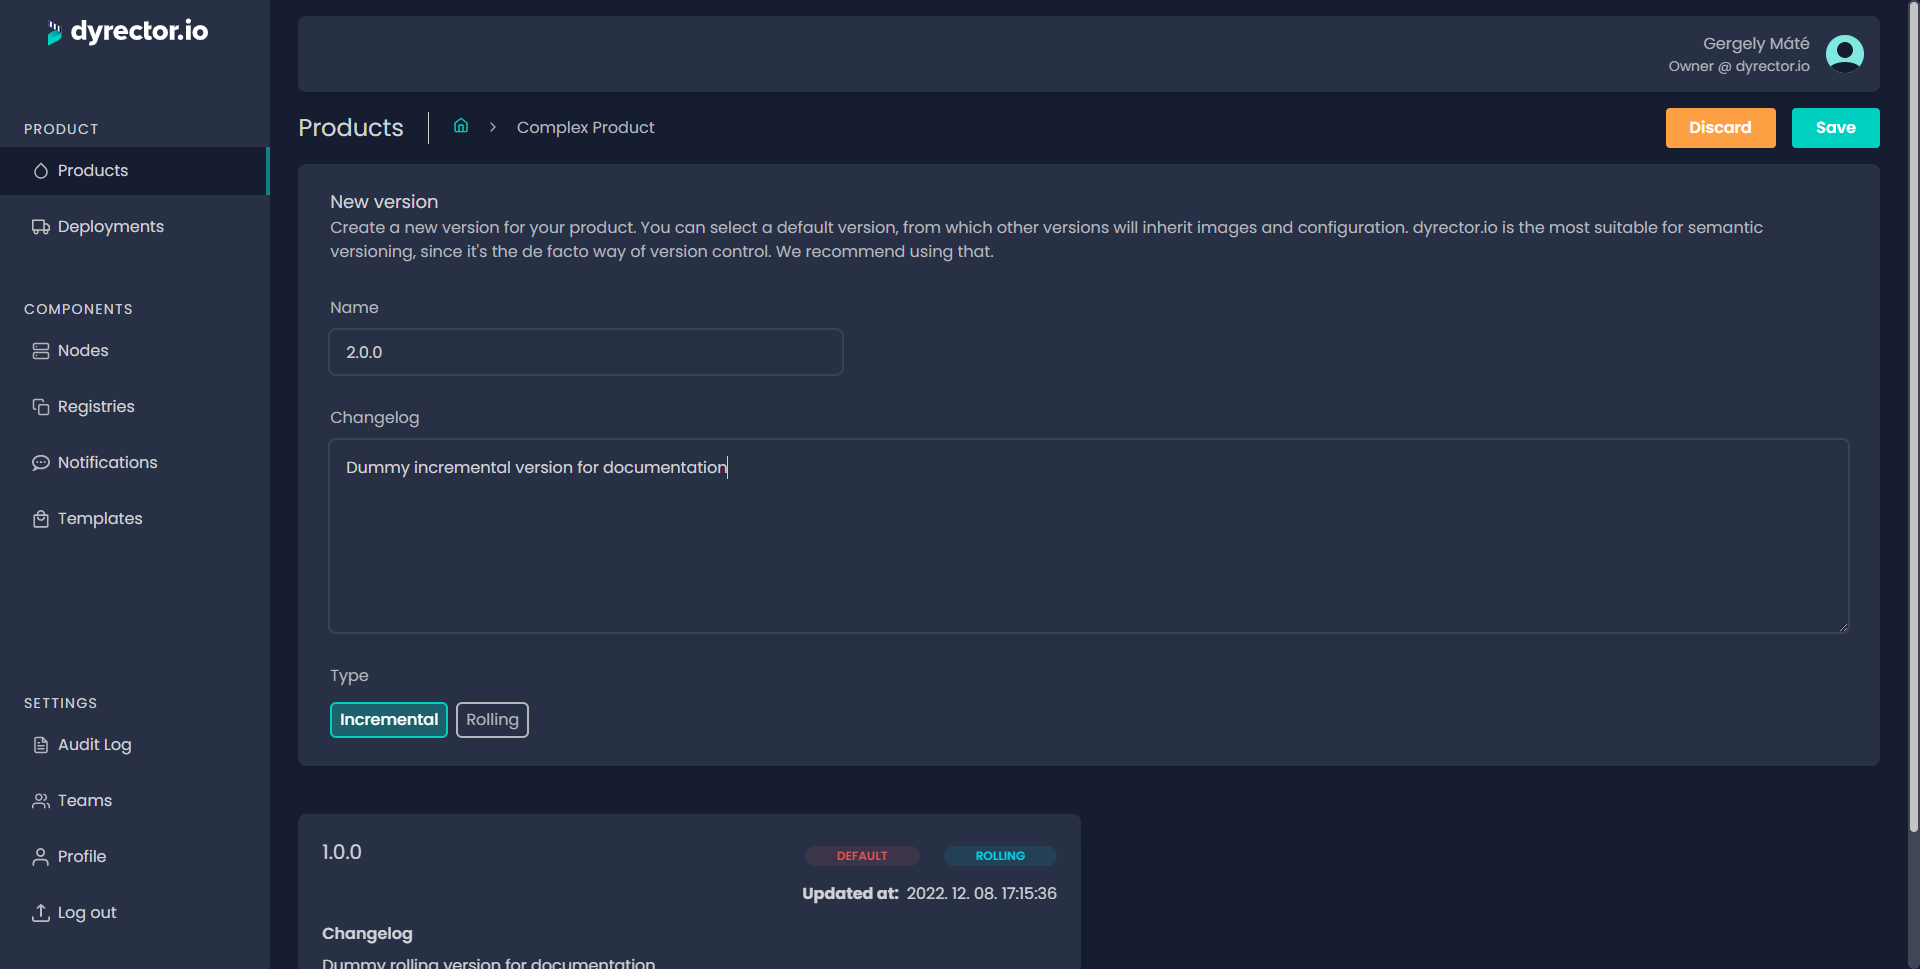
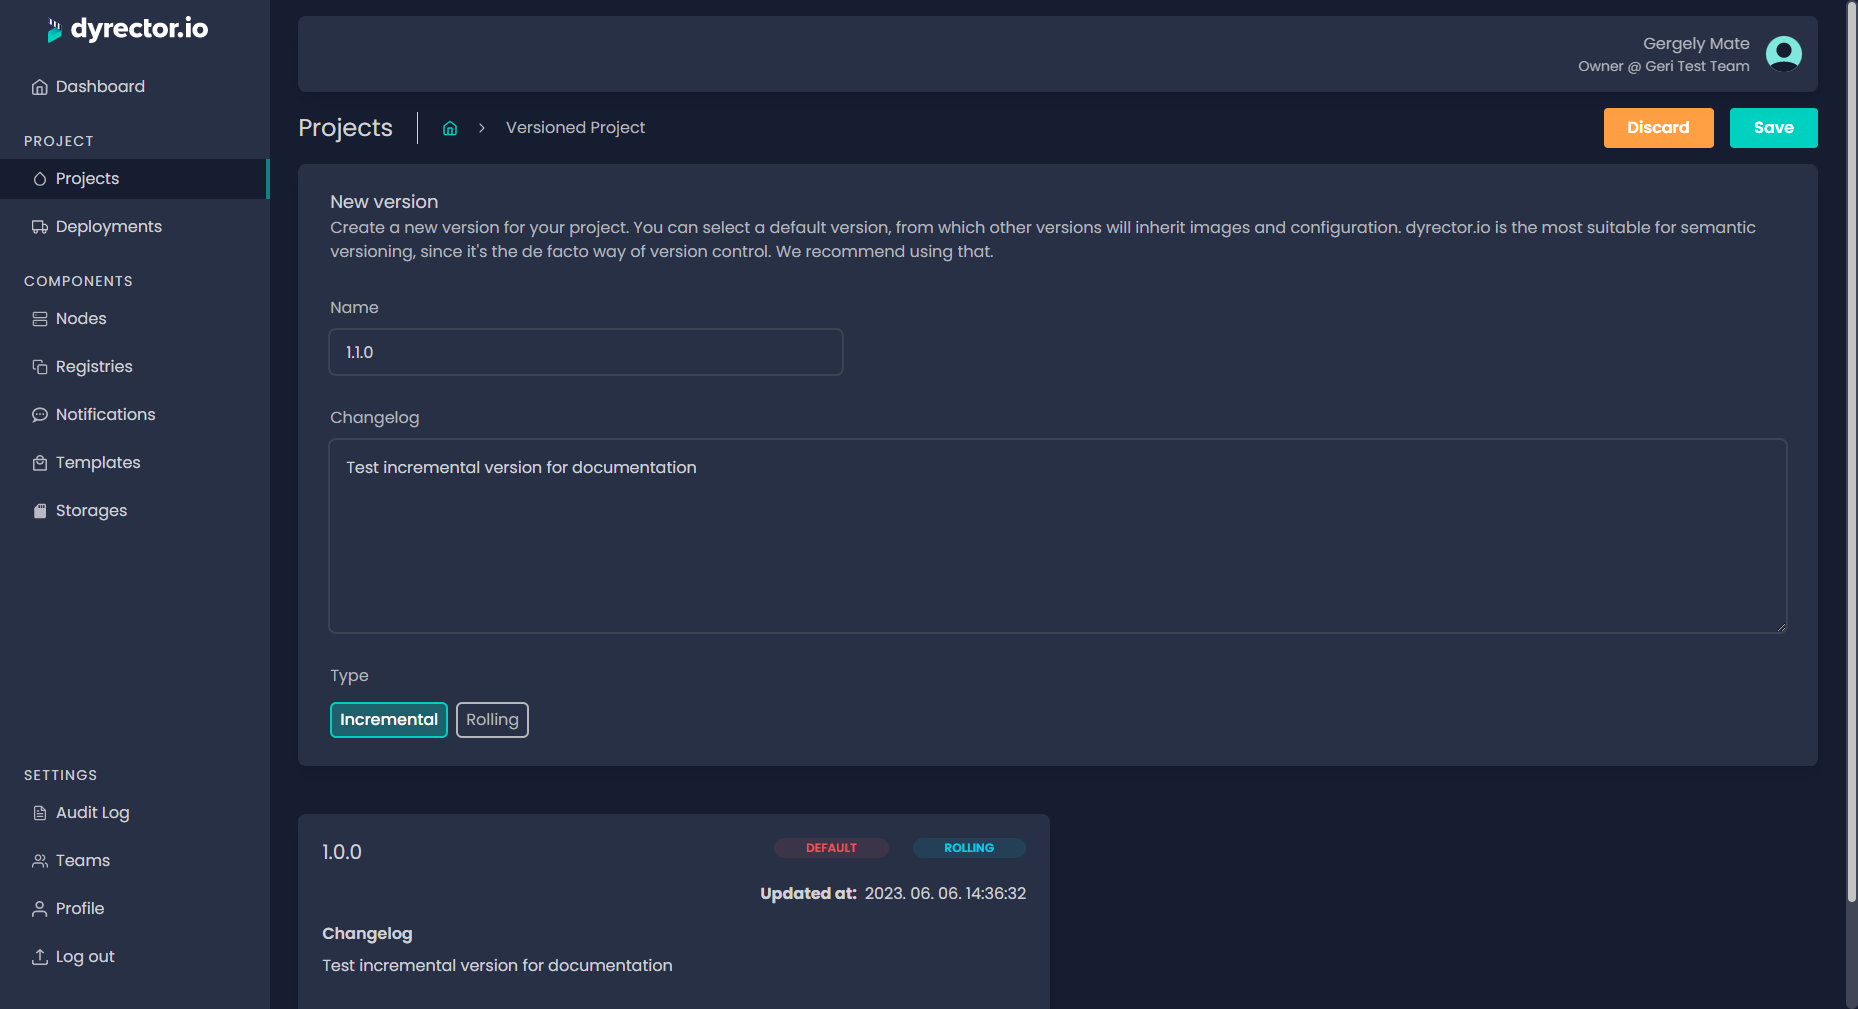
docs(gitbook): docs: update project add workflow with new screenshots

diff --git a/docs/tutorials/create-your-product/create-a-complex-product/create-a-rolling-product.md b/docs/tutorials/create-your-product/create-a-complex-product/create-a-rolling-product.md
@@ -8,25 +8,25 @@ Rolling versions are similar to versionless project in a way that they come with
 
 **Step 3:** Enter the rolling version's name and specify a changelog.
 
+![](<../../../../.gitbook/assets/dyrector-io-rolling-version-01 (1).png>)
+
 **Step 4:** Click 'Save'. You'll be directed to the board of versions of your versioned project.
 
-**Step 5:** Click 'Images' button that belongs to the version you'd like to assemble.
+![](../../../../.gitbook/assets/dyrector-io-rolling-version-02.png)
 
-![](<../../../../.gitbook/assets/dyrector-io-rolling-version-04 (1).png>)
+**Step 5:** Click 'Images' button in the card that belongs to the version you'd like to assemble.
 
 **Step 6:** Click 'Add image'.
 
-**Step 7:** Select the Registry you want to add images from.
+<figure><img src="../../../../.gitbook/assets/dyrector-io-rolling-version-03.png" alt=""><figcaption></figcaption></figure>
 
-![](../../../../.gitbook/assets/dyrector-io-rolling-version-05.png)
+**Step 7:** Select the Registry you want to add images from.
 
 **Step 8:** Type the image’s name to filter images. Select the image by clicking on the checkbox next to it.
 
-![](../../../../.gitbook/assets/dyrector-io-rolling-version-06.png)
+<figure><img src="../../../../.gitbook/assets/dyrector-io-rolling-version-04.png" alt=""><figcaption></figcaption></figure>
 
 **Step 9:** Click ‘Add’.
-
-<figure><img src="../../../../.gitbook/assets/dyrector-io-rolling-version-07 (1).png" alt=""><figcaption></figcaption></figure>
 
 **Step 10:** Pick the ‘Tag’ icon next to the bin icon in the actions column to pick a version of the image you selected in the previous step.
 
@@ -34,6 +34,6 @@ Rolling versions are similar to versionless project in a way that they come with
 Now you can define environment configurations to the selected image. For further adjustments, click on the JSON tab where you can define other variables. Copy and paste it to another image when necessary. Learn more about Configuration management [**here**](../../../features/configuration-management.md).
 {% endhint %}
 
-![](../../../../.gitbook/assets/dyrector-io-rolling-version-08.png)
-
 **Step 11:** Click ‘Add Image’ to add another image. Repeat until you have all the desired images included in your product.
+
+<figure><img src="../../../../.gitbook/assets/dyrector-io-rolling-version-05.png" alt=""><figcaption></figcaption></figure>

diff --git a/docs/tutorials/create-your-product/create-a-simple-product.md b/docs/tutorials/create-your-product/create-a-simple-product.md
@@ -12,11 +12,11 @@ Versionless projects have only one abstracted-away version and cannot be rolled 
 
 **Step 3:** Select the versionless type under the description.
 
-![After Step 3 this is how UI should look like.](../../../.gitbook/assets/dyrector-io-simple-product-01.png)
+![After Step 3 this is how UI should look like.](../../../.gitbook/assets/dyrector-io-versionless-project-01.png)
 
 **Step 4:** Click ‘Save’. You’ll be directed to the Project tab. Select the project you just created.
 
-![](../../../.gitbook/assets/dyrector-io-simple-product-02.png)
+![](../../../.gitbook/assets/dyrector-io-versionless-project-02.png)
 
 **Step 5:** Click ‘Add Image’.
 
@@ -24,11 +24,11 @@ Versionless projects have only one abstracted-away version and cannot be rolled 
 
 **Step 7:** Type the image’s name to filter images. Select the image by clicking on the checkbox next to it.
 
-![](../../../.gitbook/assets/dyrector-io-simple-product-03.png)
+![](../../../.gitbook/assets/dyrector-io-versionless-project-03.png)
 
 **Step 8:** Click ‘Add’.
 
-![](../../../.gitbook/assets/dyrector-io-simple-product-04.png)
+![](../../../.gitbook/assets/dyrector-io-versionless-project-04.png)
 
 **Step 9:** Click on the ‘Tag’ icon under the actions column left to the bin icon. This will allow you to select a version of the image you picked in the previous step.
 
@@ -36,6 +36,6 @@ Versionless projects have only one abstracted-away version and cannot be rolled 
 You can define environment configurations to the selected image by clicking on the gear icon on the right. For further adjustments, click on the JSON tab where you can define other variables. Copy and paste it to another image when necessary. Learn more about Configuration management [**here**](../../features/configuration-management.md).
 {% endhint %}
 
-![](../../../.gitbook/assets/dyrector-io-simple-product-05.png)
+![](../../../.gitbook/assets/dyrector-io-versionless-project-05.png)
 
 **Step 10:** Click ‘Add Image’ to add another image. Repeat until you have all the desired images included in your product.

diff --git a/docs/tutorials/create-your-product/create-a-complex-product/create-an-incremental-product.md b/docs/tutorials/create-your-product/create-a-complex-product/create-an-incremental-product.md
@@ -10,21 +10,19 @@ Incremental versions are hierarchical in a way that they can have child versions
 
 **Step 3:** Click ‘Save’. You’ll be redirected to the project's version board.
 
-**Step 4:** To add images, click ‘Images’ and ‘Add Image’ on the next view.
-
 <figure><img src="../../../../.gitbook/assets/dyrector-io-incremental-version-02.png" alt=""><figcaption></figcaption></figure>
+
+**Step 4:** To add images, click ‘Images’ and ‘Add Image’ on the next view.
 
 **Step 5:** Select the Registry you want to filter images from.
 
 **Step 6:** Type the image’s name to filter images. Select the image by clicking on the checkbox next to it.
 
-<figure><img src="../../../../.gitbook/assets/dyrector-io-incremental-version-03.png" alt=""><figcaption></figcaption></figure>
-
 **Step 7:** Click ‘Add’.
 
 **Step 8:** Pick the ‘Tag’ icon next to the bin icon under the actions column to pick a version of the image you selected in the previous step.
 
-<figure><img src="../../../../.gitbook/assets/dyrector-io-incremental-version-05.png" alt=""><figcaption></figcaption></figure>
+<figure><img src="../../../../.gitbook/assets/dyrector-io-incremental-version-03.png" alt=""><figcaption></figcaption></figure>
 
 {% hint style="warning" %}
 Now you can define environment configurations to the selected image. For further adjustments, click on the JSON tab where you can define other variables. Copy and paste it to another image when necessary. Learn more about Configuration management [**here**](../../../features/configuration-management.md).

diff --git a/SUMMARY.md b/SUMMARY.md
@@ -46,7 +46,7 @@
   * [Create a versioned project](docs/tutorials/create-your-product/create-a-complex-product/README.md)
     * [Create a Rolling Version](docs/tutorials/create-your-product/create-a-complex-product/create-a-rolling-product.md)
     * [Create an Incremental Version](docs/tutorials/create-your-product/create-a-complex-product/create-an-incremental-product.md)
-    * [Add a version to your Complex Product](docs/tutorials/create-your-product/create-a-complex-product/add-a-version-to-your-complex-product.md)
+    * [Add a version to your Versioned Project](docs/tutorials/create-your-product/create-a-complex-product/add-a-version-to-your-complex-product.md)
 * [Deploy your Project](docs/tutorials/deploy-your-product.md)
 * [Create Chat Notifications](docs/tutorials/create-chat-notifications.md)
 
